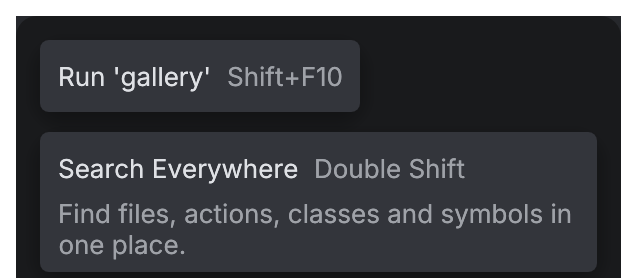
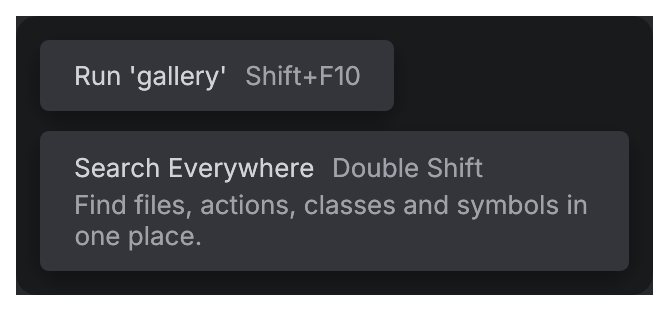
fix(tooltip): Android Studio tooltip padding and text color
Measured: 36 pt for one line, 16 pt at the sides, the label in the text color
(not the strong text color), the shortcut 9 pt after it. The content row is one
text line high instead of a 24 pt control row.

Claude-Session: https://claude.ai/code/session_01CFSJRhkJs2RrB2frFQVn3u

diff --git a/crates/archipel-kit/src/components/overlay.rs b/crates/archipel-kit/src/components/overlay.rs
@@ -79,14 +79,16 @@ impl Tooltip {
     pub fn content(&self, ui: &mut Ui) {
         let colors = Theme::colors(ui.ctx());
         let font = typography::body(typography::BODY);
-        ui.spacing_mut().item_spacing = vec2(size::SECONDARY_GAP, 3.0);
+        ui.spacing_mut().item_spacing = vec2(size::TOOLTIP_SHORTCUT_GAP, 3.0);
+        // One text line high, not a row of controls.
+        ui.spacing_mut().interact_size.y = ui.text_style_height(&egui::TextStyle::Body);
         ui.horizontal(|ui| {
             let label = common::galley(ui, self.label.as_str(), font.clone());
             let (rect, response) = ui.allocate_exact_size(label.size(), Sense::hover());
             response.widget_info(|| {
                 egui::WidgetInfo::labeled(egui::WidgetType::Label, true, &self.label)
             });
-            common::text(ui.painter(), rect.min, label, colors.text_strong);
+            common::text(ui.painter(), rect.min, label, colors.text);
             if let Some(shortcut) = &self.shortcut {
                 let shortcut = common::galley(ui, shortcut.as_str(), font.clone());
                 let (rect, _) = ui.allocate_exact_size(shortcut.size(), Sense::hover());

diff --git a/crates/archipel-kit/src/tokens.rs b/crates/archipel-kit/src/tokens.rs
@@ -57,6 +57,12 @@ pub mod size {
     pub const STATUS_ITEM_PADDING: f32 = 6.0;
     /// Height of a status bar item's hover pill (21 pt in Android Studio).
     pub const STATUS_ITEM_HEIGHT: f32 = 21.0;
+    /// Space inside a tooltip at its sides (16 pt in Android Studio).
+    pub const TOOLTIP_PADDING_X: f32 = 16.0;
+    /// Space inside a tooltip above and below its text.
+    pub const TOOLTIP_PADDING_Y: f32 = 9.0;
+    /// Space between a tooltip's text and its shortcut.
+    pub const TOOLTIP_SHORTCUT_GAP: f32 = 9.0;
     /// Height of a one-line banner (Android Studio's editor notifications: 39 pt).
     pub const BANNER_HEIGHT: f32 = 39.0;
     /// Space inside a banner before its icon.

diff --git a/crates/archipel-kit/src/parts/surface.rs b/crates/archipel-kit/src/parts/surface.rs
@@ -42,7 +42,11 @@ impl Surface {
                 .fill(colors.tooltip)
                 .stroke(Stroke::new(1.0_f32, colors.popup_border))
                 .corner_radius(CornerRadius::same(radius::CONTROL))
-                .inner_margin(Margin::symmetric(8, 5)),
+                // Android Studio's tooltips: 16 pt at the sides, 36 pt high for one line.
+                .inner_margin(Margin::symmetric(
+                    size::TOOLTIP_PADDING_X as i8,
+                    size::TOOLTIP_PADDING_Y as i8,
+                )),
             Surface::Dialog => egui::Frame::popup(&style)
                 .fill(colors.popup)
                 .stroke(Stroke::new(1.0_f32, colors.popup_border))

diff --git a/docs/component-map.md b/docs/component-map.md
@@ -106,6 +106,7 @@ pointer and keyboard and recording the screen at 60 fps. The kit reproduces each
 
 | Situation | Android Studio | Kit |
 |---|---|---|
+| Tooltip look | `#33353B`, 36 pt for one line, 16 pt at the sides, text `#D1D3D9`, shortcut in `text_secondary` 9 pt after it | `Surface::Tooltip`, `tokens::size::TOOLTIP_*` |
 | Tooltip delay | About 0.5 s on toolbar buttons; stripe buttons name themselves at once, beside the button | egui's 0.5 s; `Tooltip::immediate`, `Tooltip::align` |
 | Tooltip linger | Help tooltips stay about 0.5 s after the pointer leaves, so links in them can be reached | Not reproduced: kit tooltips have no links |
 | Status bar | 30 pt on the frame, 8 pt from the left; items 21 pt hover pills, text `text_secondary`, full strength on hover | `Workbench::status`, `StatusBarItem` |
